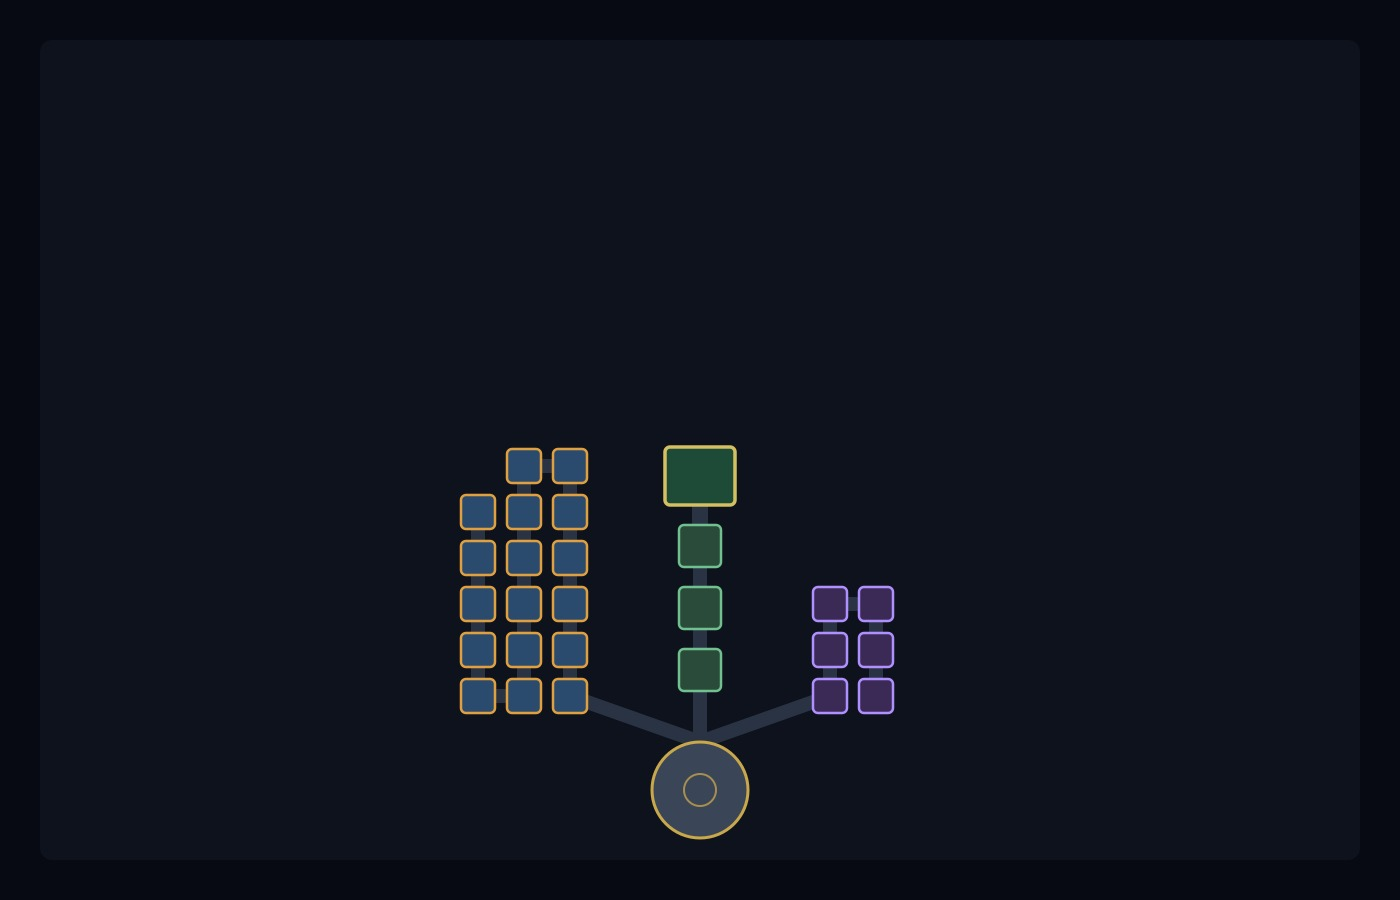
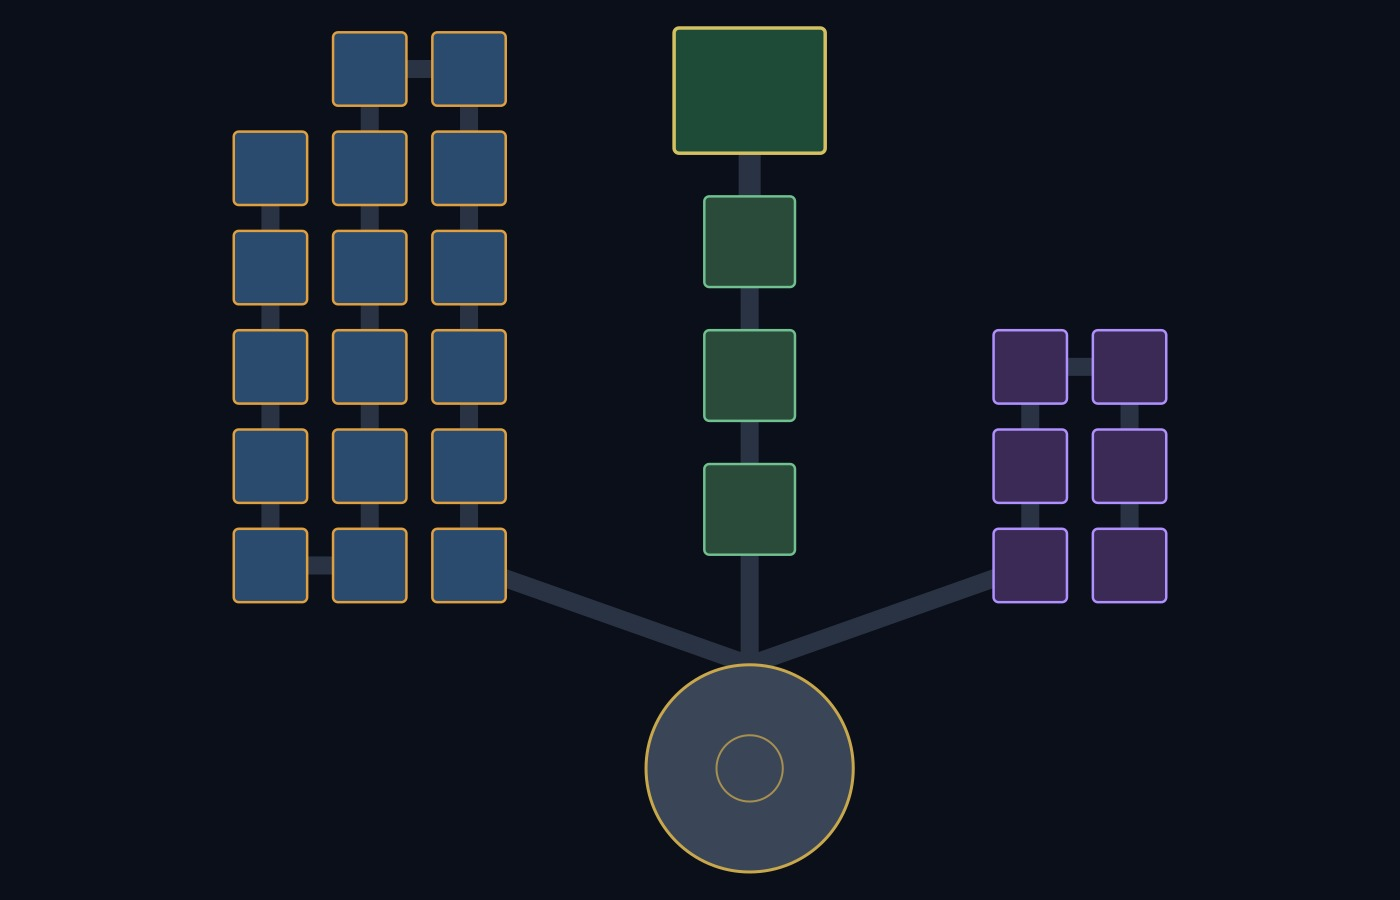
Scale accordion map to fill the frame within safe margins.
Refit room layout to the canvas, sync pin coordinates, and slightly increase overview zoom.

Changed region(s): [[0.1536, 0.0311, 0.86, 0.9956]]

diff --git a/_tools/map-template.html b/_tools/map-template.html
@@ -297,7 +297,7 @@ domains.forEach(d => nodes.push({ kind: 'domain', realm: d.realm, label: d.title
 nodes.push({ kind: 'core', realm: 'land', label: '中枢の間', sub: allDone ? '再起動' : '最終目的地', state: allDone ? 'cleared' : 'fog' });
 
 // 案A じゃばら：map/bg.jpg・docs/data/map-layout.json と同一座標（画像px）。MARGIN=80 を引いて n.x へ。
-const MAP_W = 1400, MAP_H = 900, GEO_MARGIN = 80;
+const MAP_W = 1400, MAP_H = 900, GEO_MARGIN = 80, MAP_FIT_MARGIN = 28;
 function accordionCenters(n, origin, opts) {
   const cell = opts.cell, gap = opts.gap, colsPrefer = opts.colsPrefer, side = opts.side, baseOut = opts.baseOut;
   const step = cell + gap;
@@ -309,25 +309,52 @@ function accordionCenters(n, origin, opts) {
     const row = col % 2 === 0 ? rowInCol : rows - 1 - rowInCol;
     pts.push({
       x: origin.x + side * (baseOut + col * step),
-      y: origin.y - (row + 1) * step
+      y: origin.y - (row + 1) * step,
+      w: cell,
+      h: cell
     });
   }
   return pts;
+}
+function fitMapPoints(hub, lists, goal, marginPx) {
+  const rooms = lists.flat().concat([goal]);
+  let minX = hub.x - hub.r, maxX = hub.x + hub.r, minY = hub.y - hub.r, maxY = hub.y + hub.r;
+  rooms.forEach((r) => {
+    const hw = (r.w || 34) / 2, hh = (r.h || 34) / 2;
+    minX = Math.min(minX, r.x - hw); maxX = Math.max(maxX, r.x + hw);
+    minY = Math.min(minY, r.y - hh); maxY = Math.max(maxY, r.y + hh);
+  });
+  const bw = Math.max(1, maxX - minX), bh = Math.max(1, maxY - minY);
+  const scale = Math.min((MAP_W - marginPx * 2) / bw, (MAP_H - marginPx * 2) / bh);
+  const ox = (MAP_W - bw * scale) / 2 - minX * scale;
+  const oy = (MAP_H - bh * scale) / 2 - minY * scale;
+  const map1 = (p) => ({ x: p.x * scale + ox, y: p.y * scale + oy });
+  return {
+    hub: { x: hub.x * scale + ox, y: hub.y * scale + oy },
+    lists: lists.map((arr) => arr.map(map1)),
+    goal: map1(goal)
+  };
 }
 function applyPx(node, px, py) {
   node.x = px - GEO_MARGIN;
   node.y = py - GEO_MARGIN;
 }
-const hubPx = { x: MAP_W / 2, y: MAP_H - 110, r: 48 };
-const originPx = { x: hubPx.x, y: hubPx.y - hubPx.r };
-const shieldPx = accordionCenters(17, originPx, { side: -1, colsPrefer: 3, cell: 34, gap: 12, baseOut: 130 });
-const swordPx = accordionCenters(6, originPx, { side: 1, colsPrefer: 2, cell: 34, gap: 12, baseOut: 130 });
-const spiritPx = [];
+const hubRaw = { x: MAP_W / 2, y: MAP_H - 110, r: 48 };
+const originPx = { x: hubRaw.x, y: hubRaw.y - hubRaw.r };
+const shieldRaw = accordionCenters(17, originPx, { side: -1, colsPrefer: 3, cell: 34, gap: 12, baseOut: 130 });
+const swordRaw = accordionCenters(6, originPx, { side: 1, colsPrefer: 2, cell: 34, gap: 12, baseOut: 130 });
+const spiritRaw = [];
 {
   const cell = 42, gap = 20, step = cell + gap;
-  for (let i = 0; i < 3; i++) spiritPx.push({ x: originPx.x, y: originPx.y - (i + 1) * step - 10 });
+  for (let i = 0; i < 3; i++) spiritRaw.push({ x: originPx.x, y: originPx.y - (i + 1) * step - 10, w: cell, h: cell });
 }
-const goalPx = { x: spiritPx[2].x, y: spiritPx[2].y - 70 };
+const goalRaw = { x: spiritRaw[2].x, y: spiritRaw[2].y - 70, w: 70, h: 58 };
+const fitted = fitMapPoints(hubRaw, [shieldRaw, swordRaw, spiritRaw], goalRaw, MAP_FIT_MARGIN);
+const hubPx = fitted.hub;
+const shieldPx = fitted.lists[0];
+const swordPx = fitted.lists[1];
+const spiritPx = fitted.lists[2];
+const goalPx = fitted.goal;
 
 const hubLayout = nodes.find(n => n.kind === 'hub');
 if (hubLayout) applyPx(hubLayout, hubPx.x, hubPx.y);

diff --git a/docs/map.html b/docs/map.html
@@ -297,7 +297,7 @@ domains.forEach(d => nodes.push({ kind: 'domain', realm: d.realm, label: d.title
 nodes.push({ kind: 'core', realm: 'land', label: '中枢の間', sub: allDone ? '再起動' : '最終目的地', state: allDone ? 'cleared' : 'fog' });
 
 // 案A じゃばら：map/bg.jpg・docs/data/map-layout.json と同一座標（画像px）。MARGIN=80 を引いて n.x へ。
-const MAP_W = 1400, MAP_H = 900, GEO_MARGIN = 80;
+const MAP_W = 1400, MAP_H = 900, GEO_MARGIN = 80, MAP_FIT_MARGIN = 28;
 function accordionCenters(n, origin, opts) {
   const cell = opts.cell, gap = opts.gap, colsPrefer = opts.colsPrefer, side = opts.side, baseOut = opts.baseOut;
   const step = cell + gap;
@@ -309,25 +309,52 @@ function accordionCenters(n, origin, opts) {
     const row = col % 2 === 0 ? rowInCol : rows - 1 - rowInCol;
     pts.push({
       x: origin.x + side * (baseOut + col * step),
-      y: origin.y - (row + 1) * step
+      y: origin.y - (row + 1) * step,
+      w: cell,
+      h: cell
     });
   }
   return pts;
+}
+function fitMapPoints(hub, lists, goal, marginPx) {
+  const rooms = lists.flat().concat([goal]);
+  let minX = hub.x - hub.r, maxX = hub.x + hub.r, minY = hub.y - hub.r, maxY = hub.y + hub.r;
+  rooms.forEach((r) => {
+    const hw = (r.w || 34) / 2, hh = (r.h || 34) / 2;
+    minX = Math.min(minX, r.x - hw); maxX = Math.max(maxX, r.x + hw);
+    minY = Math.min(minY, r.y - hh); maxY = Math.max(maxY, r.y + hh);
+  });
+  const bw = Math.max(1, maxX - minX), bh = Math.max(1, maxY - minY);
+  const scale = Math.min((MAP_W - marginPx * 2) / bw, (MAP_H - marginPx * 2) / bh);
+  const ox = (MAP_W - bw * scale) / 2 - minX * scale;
+  const oy = (MAP_H - bh * scale) / 2 - minY * scale;
+  const map1 = (p) => ({ x: p.x * scale + ox, y: p.y * scale + oy });
+  return {
+    hub: { x: hub.x * scale + ox, y: hub.y * scale + oy },
+    lists: lists.map((arr) => arr.map(map1)),
+    goal: map1(goal)
+  };
 }
 function applyPx(node, px, py) {
   node.x = px - GEO_MARGIN;
   node.y = py - GEO_MARGIN;
 }
-const hubPx = { x: MAP_W / 2, y: MAP_H - 110, r: 48 };
-const originPx = { x: hubPx.x, y: hubPx.y - hubPx.r };
-const shieldPx = accordionCenters(17, originPx, { side: -1, colsPrefer: 3, cell: 34, gap: 12, baseOut: 130 });
-const swordPx = accordionCenters(6, originPx, { side: 1, colsPrefer: 2, cell: 34, gap: 12, baseOut: 130 });
-const spiritPx = [];
+const hubRaw = { x: MAP_W / 2, y: MAP_H - 110, r: 48 };
+const originPx = { x: hubRaw.x, y: hubRaw.y - hubRaw.r };
+const shieldRaw = accordionCenters(17, originPx, { side: -1, colsPrefer: 3, cell: 34, gap: 12, baseOut: 130 });
+const swordRaw = accordionCenters(6, originPx, { side: 1, colsPrefer: 2, cell: 34, gap: 12, baseOut: 130 });
+const spiritRaw = [];
 {
   const cell = 42, gap = 20, step = cell + gap;
-  for (let i = 0; i < 3; i++) spiritPx.push({ x: originPx.x, y: originPx.y - (i + 1) * step - 10 });
+  for (let i = 0; i < 3; i++) spiritRaw.push({ x: originPx.x, y: originPx.y - (i + 1) * step - 10, w: cell, h: cell });
 }
-const goalPx = { x: spiritPx[2].x, y: spiritPx[2].y - 70 };
+const goalRaw = { x: spiritRaw[2].x, y: spiritRaw[2].y - 70, w: 70, h: 58 };
+const fitted = fitMapPoints(hubRaw, [shieldRaw, swordRaw, spiritRaw], goalRaw, MAP_FIT_MARGIN);
+const hubPx = fitted.hub;
+const shieldPx = fitted.lists[0];
+const swordPx = fitted.lists[1];
+const spiritPx = fitted.lists[2];
+const goalPx = fitted.goal;
 
 const hubLayout = nodes.find(n => n.kind === 'hub');
 if (hubLayout) applyPx(hubLayout, hubPx.x, hubPx.y);

diff --git a/docs/lamp-dungeon.js b/docs/lamp-dungeon.js
@@ -1189,7 +1189,7 @@ export function mountLampWorld(container, opts) {
     if (reduced || duration === 0) {
       camX = dungeon.worldW / 2;
       camY = dungeon.worldH / 2;
-      camZoom = Math.min(canvas.width / dungeon.worldW, canvas.height / dungeon.worldH) * 0.92;
+      camZoom = Math.min(canvas.width / dungeon.worldW, canvas.height / dungeon.worldH) * 0.98;
       return;
     }
     anim = {
@@ -1199,7 +1199,7 @@ export function mountLampWorld(container, opts) {
       fromX: camX, fromY: camY, fromZ: camZoom,
       toX: dungeon.worldW / 2,
       toY: dungeon.worldH / 2,
-      toZ: Math.min(canvas.width / dungeon.worldW, canvas.height / dungeon.worldH) * 0.92
+      toZ: Math.min(canvas.width / dungeon.worldW, canvas.height / dungeon.worldH) * 0.98
     };
   }
 

diff --git a/docs/sw.js b/docs/sw.js
@@ -1,5 +1,5 @@
 /* ランプ諸島 PWA — 静的アセットをキャッシュ（初回訪問後オフライン閲覧・学習用） */
-const CACHE = 'lamp-archipelago-v31';
+const CACHE = 'lamp-archipelago-v32';
 const PRECACHE = [
   './',
   './index.html',
